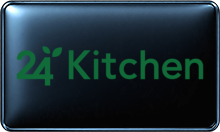
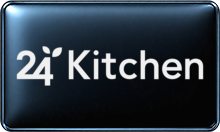
Repair nine more BLACK/WHITE variants (batch 017)

Changed region(s): [[0.0545, 0.3333, 0.9273, 0.6667]]

diff --git a/reports/black-white-qc-2026-10-09/batch-017/checkpoint.md b/reports/black-white-qc-2026-10-09/batch-017/checkpoint.md
@@ -1,0 +1,12 @@
+# Batch 017 checkpoint — review sheets 036–041
+
+- Scope: review IDs 3501–4100 (sheets 036–041), 600 BLACK/WHITE variants visually inspected from the current catalog outputs and `all-review-index.csv.gz`.
+- Local repository HEAD at checkpoint: `719dd59ec5ef09a28503d21d3f21bad011de442a`.
+- Remote branch HEAD before this batch push: `f305093c7918390a7b756ce662140f996b35e319`.
+- Output: 9 high-confidence low-contrast defects repaired (5 BLACK, 4 WHITE); 591 other variants were visually reviewed and no safe localized correction was selected from this pass. The manifest lists only the 9 files changed. Borderline brand-color cases were not reported as PASS or altered.
+- Checks: all 9 repaired outputs decode as PNG RGBA 220×132; every edited output was compared with a pinned `fit_logo` + master render before modification; changed masks are recorded in `repair-manifest.csv`; gold TFC flame and HRT red marks/numeral were verified unchanged. Transparent sources and master templates were read-only.
+- Comparison: `batch-017-before-after.jpg` contains the 9 source-rendered before/after pairs.
+- Next review identifier after this batch: 4101.
+- Batch image fixes and 600 individual audit outcomes are prepared for incremental push; no production/main writes.
+
+- Remote branch HEAD before push: `f305093c7918390a7b756ce662140f996b35e319`.

diff --git a/reports/black-white-qc-2026-10-09/batch-016/checkpoint.md b/reports/black-white-qc-2026-10-09/batch-016/checkpoint.md
@@ -13,3 +13,4 @@
 Detailed paths, hashes and mask extents: `repair-manifest.csv`. Before/after visual comparison: `batch-016-before-after.jpg`.
 
 - Next contiguous review ID: 3501 (batch-017 covers IDs 3501–4100).
+- Pushed repair commit: `f305093c7918390a7b756ce662140f996b35e319`.
